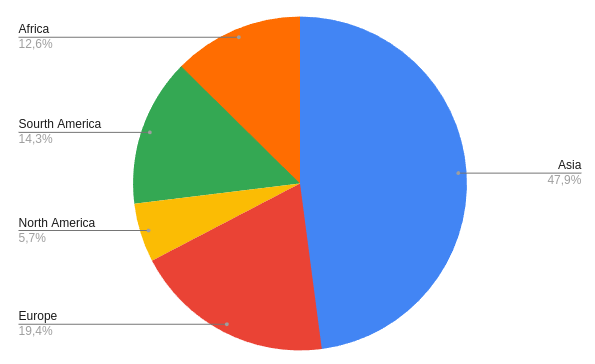
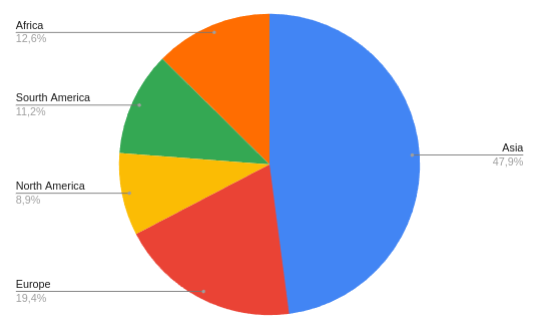
added global balancing

diff --git a/README.md b/README.md
@@ -59,18 +59,8 @@
 
 "*" - обозначены предполагаемые величины
 
-
 Т.к. распределение по количеству пользователей довольно равномерное по странам [4] и регионам [6]
 не будем концентрироваться на определенный регион.
-
-На рисунке 2 можно увидеть распределение аудитории по условным регионам, основанные на данных [4].
-Сами расчеты посмотреть здесь [10].
-
-![MAU по регионам](MAU_by_region.png)
-
-**Рисунок 2.  Распределение MAU по условным регионам**
-
-Примем среднее время звонка 10 мин согласно [11].
 
 ## 2. Расчет нагрузки
 ### Результаты расчетов
@@ -124,13 +114,15 @@ Daily active users(DAU) я взял с учетом сайтов [2] и [3]
 (24 д * 60 мин * 60 с) = 347 запросов/сек
 
 Количество голосовых и видео звонков есть здесь [6]. Но т.к. там упоминается и видео,
-и голосовых звонков поделим на 2, и поделил также на 5.
+и голосовых звонков поделим на 2, и поделил также на 5. 
+Примем среднее время звонка 10 мин согласно [11].
 Тогда кол-во запросов на создание звонка: 200 млн мин в день \ 10 мин = 20 млн в день
 
 **RPS запросов на создание звонка** = 20 млн в день / (24 ч * 60 мин * 60 с) = 231 запрос в секунду
 
 25 заходов во все мессенджеры в день в среднем на одного человека [14].
 Тогда DAU * 25 = 193 млн * 25 = 4825 млн в день
+
 **RPS запросов на получение новых сообщений**: 4825 млн в день / (24ч * 60м * 60с) =
 55845 запросов/сек
 
@@ -221,6 +213,72 @@ Daily active users(DAU) я взял с учетом сайтов [2] и [3]
 Кол-во регистраций в год = 2870.3 Гб/с * (24ч * 60м * 60с) / 193 млн в день * 80 млн в год /
 (8 * 1024)= 12.25 Пбайт в год 
 
+## 3. Глобальная балансировка 
+
+| Регион           |                      Расположение датацентров                       | 
+|------------------|:-------------------------------------------------------------------:|
+| Азия             |        Нью-Делли(Индия), Джакарта(Индонезия), Токио(Япония)         |
+| Европа           | Москва(Россия), Берлин(Германия), Стамбул(Турция), Марсель(Франция) | 
+| Южная Америка    |   Сан-Паулу(Бразилия), Богота(Колумбия), Буэнос-Айрес(Аргентина)    | 
+| Африка           |        Лагос(Нигерия), Каир(Египет), Кейптаун(Южная Африка)         | 
+| Северная Америка |          Вашингтон(США),Лос-Анджелес(США) Мехико(Мексика)           | 
+
+На рисунке 1 можно увидеть распределение аудитории по условным регионам, основанные на данных [4].
+Построение диаграммы можно посмотреть здесь [10]. Также в [10] построил карты по регионам:
+Азия, Европа, Южная Америка, Африка, Северная Америка см. рисунки 2-6.
+Также смотрел страны, где MAU больше 5 млн, исходя из этого выбрал датацентры. 
+Также учитывал карту морских кабелей [14]
+
+![MAU_by_region.png](MAU_by_region.png)
+
+**Рисунок 1.  Распределение MAU по условным регионам**
+
+![Asia.png](Asia.png)
+
+**Рисунок 2.  Распределение MAU Азия**
+
+![Europe.png](Europe.png)
+
+**Рисунок 3.  Распределение MAU Европа**
+
+![Sourth_America.png](Sourth_America.png)
+
+**Рисунок 4.  Распределение MAU Южная Америка**
+
+![Africa.png](Africa.png)
+
+**Рисунок 5.  Распределение MAU Африка**
+
+![North_America.png](North_America.png)
+
+**Рисунок 6.  Распределение MAU Северная Америка**
+
+| Страны с боллее 5 млн MAU | Кол-во пользователей |
+|---------------------------|----------------------|
+| India                     | 107 160 000          |
+| Brazil                    | 27 860 000           |
+| United States             | 18 260 000           |
+| Indonesia                 | 17 380 000           |
+| Mexico                    | 13 940 000           |
+| Russia                    | 13 340 000           |
+| Pakistan                  | 10 460 000           |
+| Germany                   | 10 380 000           |
+| Philippines               | 10 240 000           |
+| Nigeria                   | 10 200 000           |
+| Turkey                    | 9 520 000            |
+| Bangladesh                | 8 800 000            |
+| United Kingdom            | 7 960 000            |
+| Japan                     | 7 720 000            |
+| Italy                     | 7 460 000            |
+| Spain                     | 7 060 000            |
+| Egypt                     | 7 060 000            |
+| Vietnam                   | 5 960 000            |
+| Thailand                  | 5 880 000            |
+| Colombia                  | 5 780 000            |
+| South Africa              | 5 760 000            |
+| France                    | 5 020 000            |
+
+
 ## Список литературы
 
 1. Общая статистика Whatsapp https://www.bankmycell.com/blog/number-of-whatsapp-users/#1613581803631-96bfa-c1678a7f-e18553c4-2e8a2161-0689e002-e6d075e8-7b5a
@@ -237,3 +295,4 @@ Daily active users(DAU) я взял с учетом сайтов [2] и [3]
 12. Исследование английских слов https://norvig.com/mayzner.html
 13. Калькулятор голосовых звонков WhatsApp https://3roam.com/whatsapp-data-and-bandwidth-usage-calculator/
 14. Среднее кол-во заходов в мессенджеры в день https://www.tadviser.ru/index.php/%D0%A1%D1%82%D0%B0%D1%82%D1%8C%D1%8F:%D0%9C%D0%B5%D1%81%D1%81%D0%B5%D0%BD%D0%B4%D0%B6%D0%B5%D1%80%D1%8B_&#40;Instant_Messenger,_IM&#41;#:~:text=%D0%9A%D0%B0%D0%BA%20%D0%B2%D1%8B%D1%8F%D1%81%D0%BD%D0%B8%D0%BB%D0%BE%D1%81%D1%8C%2C%20%D0%B2%20%D1%81%D1%80%D0%B5%D0%B4%D0%BD%D0%B5%D0%BC%20%D0%BF%D0%BE%D0%BB%D1%8C%D0%B7%D0%BE%D0%B2%D0%B0%D1%82%D0%B5%D0%BB%D1%8C,%D0%B8%D0%B4%D1%83%D1%82%20Viber%2C%20Telegram%20%D0%B8%20Skype.)
+15. Карта морских кабелей https://www.submarinecablemap.com/
